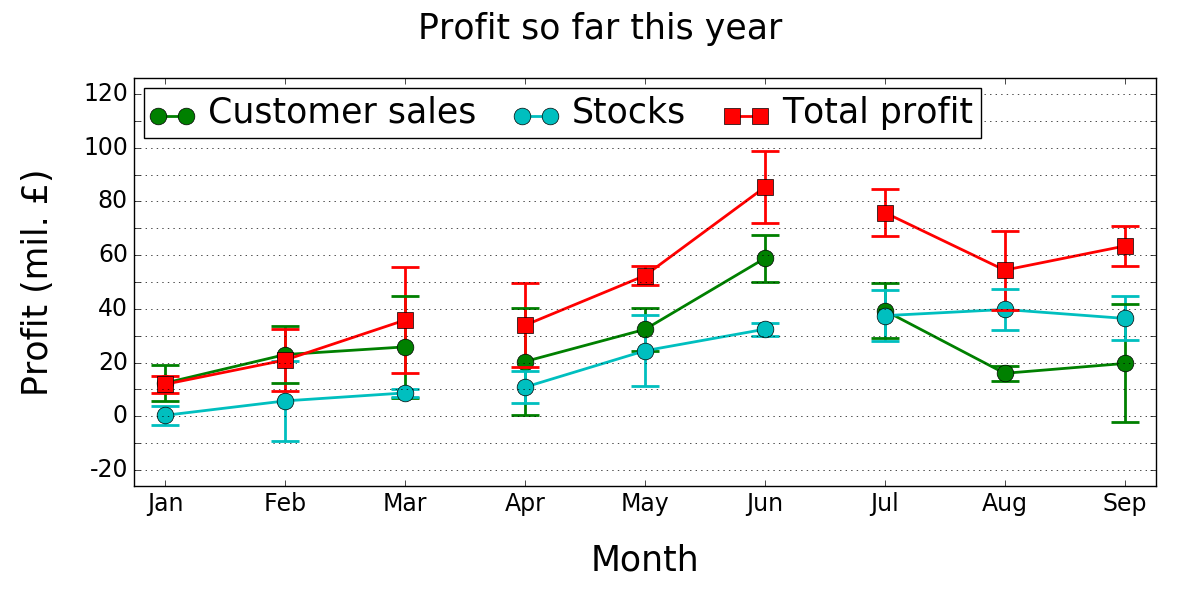
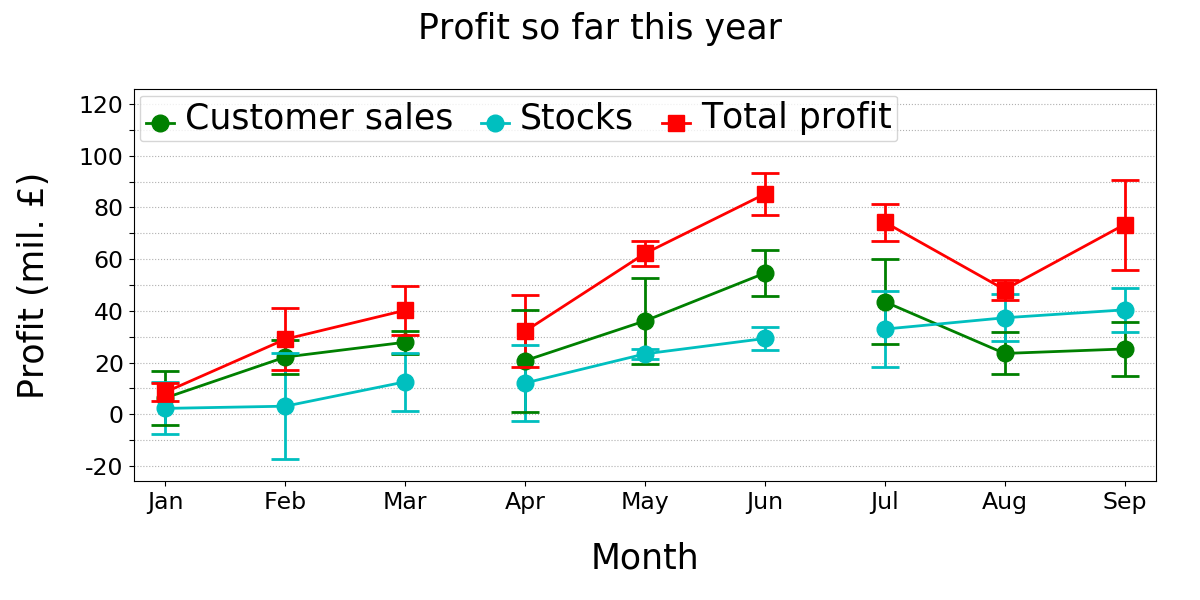
fixing plot y range when averages shown

diff --git a/python/pyCreeper/crGraphs.py b/python/pyCreeper/crGraphs.py
@@ -351,11 +351,19 @@ def createLinePlot(data_,
                     elif (pVal < 0.05):
                         xTickLabels[q] = str(xTickLabels[q]) + "\n*";
 
-                for r in range(len(data_[i][q])):
-                    if (data_[i][q][r] > maxVal):
-                        maxVal = data_[i][q][r];
-                    if (data_[i][q][r] < minVal):
-                        minVal = data_[i][q][r]
+                #-- find data min/max
+                if (showAverages_ and not showConfidenceIntervals_):
+                    #-- averages will need a different scale than when showing confidence intervals or box plots because they don't show all data
+                    if (dataPoints[q] > maxVal):
+                        maxVal = dataPoints[q];
+                    if (dataPoints[q] < minVal):
+                        minVal = dataPoints[q]
+                else:
+                    for r in range(len(data_[i][q])):
+                        if (data_[i][q][r] > maxVal):
+                            maxVal = data_[i][q][r];
+                        if (data_[i][q][r] < minVal):
+                            minVal = data_[i][q][r]
 
             if (showConfidenceIntervals_):
                 dataDof = [(len(data_[i][q])-1) for q in range(len(dataPoints))]; #degrees of freedom is sample size -1
